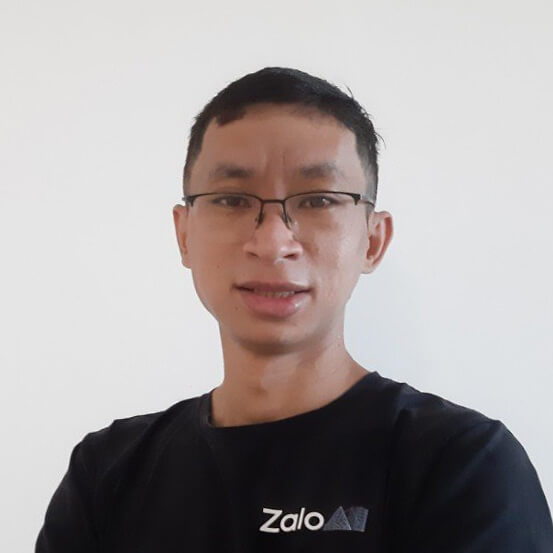
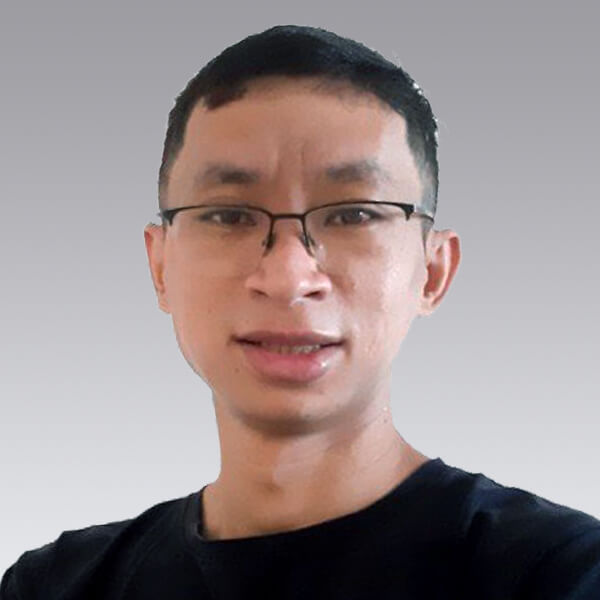
up

diff --git a/index.html b/index.html
@@ -107,13 +107,13 @@
               <li class="wow fadeIn"><a class="item-speaker" href="javascript:void(0);" data-toggle="modal" data-target="#modal-speaker-duynguyen"><span class="avatar" style="background-image:url(images/speaker_duynguyen.jpg)"></span>
                   <h4 class="name">Duy Nguyen</h4>
                   <p class="company">Zalo AI</p></a></li>
-              <li class="wow fadeIn"><a class="item-speaker" href="javascript:void(0);" data-toggle="modal" data-target="#modal-speaker-minhnguyen"><span class="avatar" style="background-image:url(images/speaker_quantran.png)"></span>
+              <li class="wow fadeIn"><a class="item-speaker" href="javascript:void(0);" data-toggle="modal" data-target="#modal-speaker-minhnguyen"><span class="avatar" style="background-image:url(images/speaker_minhnguyen.jpg)"></span>
                   <h4 class="name">Minh Nguyen</h4>
                   <p class="company">JAIST</p></a></li>
-              <li class="wow fadeIn"><a class="item-speaker" href="javascript:void(0);" data-toggle="modal" data-target="#modal-speaker-mynguyen"><span class="avatar" style="background-image:url(images/speaker_mynguyen.jpeg)"></span>
+              <li class="wow fadeIn"><a class="item-speaker" href="javascript:void(0);" data-toggle="modal" data-target="#modal-speaker-mynguyen"><span class="avatar" style="background-image:url(images/speaker_mynguyen.jpg)"></span>
                   <h4 class="name">My Nguyen</h4>
                   <p class="company">Amazon Web Services</p></a></li>
-              <li class="wow fadeIn"><a class="item-speaker" href="javascript:void(0);" data-toggle="modal" data-target="#modal-speaker-chuongnguyen"><span class="avatar" style="background-image:url(images/speaker_chuongnguyen.png)"></span>
+              <li class="wow fadeIn"><a class="item-speaker" href="javascript:void(0);" data-toggle="modal" data-target="#modal-speaker-chuongnguyen"><span class="avatar" style="background-image:url(images/speaker_chuongnguyen.jpg)"></span>
                   <h4 class="name">Chuong Nguyen</h4>
                   <p class="company">Zalo AI Lab</p></a></li>
             </ul>
@@ -371,7 +371,7 @@
         <div class="modal-content">
           <div class="modal-body text-center">
             <div class="context-speaker">
-              <div class="profile"><span class="avatar" style="background-image:url(images/speaker_quantran.png)"></span>
+              <div class="profile"><span class="avatar" style="background-image:url(images/speaker_minhnguyen.png)"></span>
                 <div class="info">
                   <h4 class="name">Minh Nguyen</h4>
                   <p class="company">JAIST</p>
